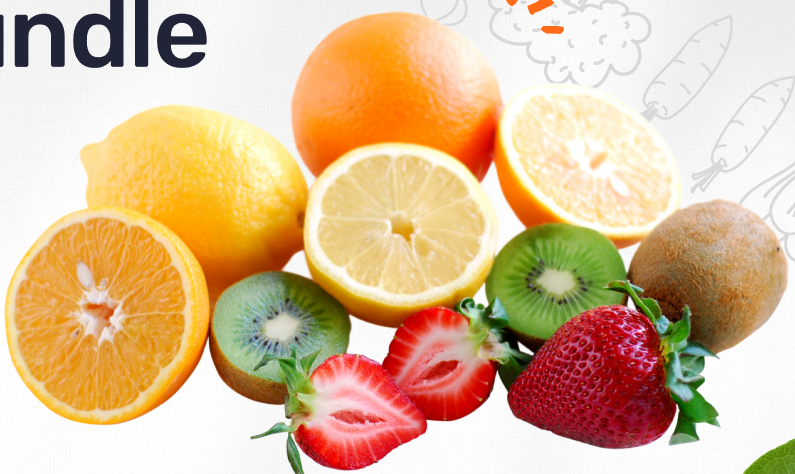
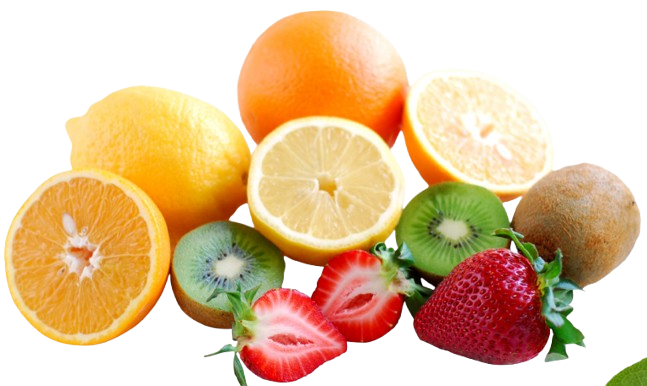
add offer sectio

diff --git a/src/components/page/home/Offer.tsx b/src/components/page/home/Offer.tsx
@@ -1,0 +1,20 @@
+import SectionTag from "@/components/shered/ui/SectionTag";
+import Image from "next/image";
+import fruitImage from "@/assets/offer.png";
+const Offer = () => {
+    return (
+        <div className="bg-[#eeecec] py-24 relative">
+            <div className='container'>
+                <SectionTag tag='Special Offer' />
+                <h2 className="text-[80px] font-medium">Seasonal Fruit Bundle</h2>
+                <p className="text-5xl font-medium mt-2">
+                    Discount up to <span className="text-primary">80% OFF</span>
+                </p>
+                <span className="text-[32px] px-8 py-4 font-semibold bg-[#176D38] rounded-full text-white mt-8 inline-block">CODE : <span className="text-[#FAC714]">FRESH28</span></span>
+            </div>
+            <Image src={fruitImage} alt="Fruit Offer" className="absolute right-0 bottom-0" />
+        </div>
+    );
+};
+
+export default Offer;

diff --git a/src/app/page.tsx b/src/app/page.tsx
@@ -1,6 +1,7 @@
 import About from "@/components/page/home/About";
 import Banner from "@/components/page/home/Banner";
 import Blogs from "@/components/page/home/Blogs";
+import Offer from "@/components/page/home/Offer";
 import Products from "@/components/page/home/Products";
 import Testimonial from "@/components/page/home/Testimonial";
 
@@ -10,6 +11,7 @@ const HomePage = () => {
             <Banner />
             <Products />
             <About/>
+            <Offer />
             <Testimonial/>
             <Blogs/>
         </div>

diff --git a/src/app/globals.css b/src/app/globals.css
@@ -32,3 +32,4 @@ body {
     /* background-color: #f1f1f1 ;  */
     /* z-index: 999; */
 }
+
